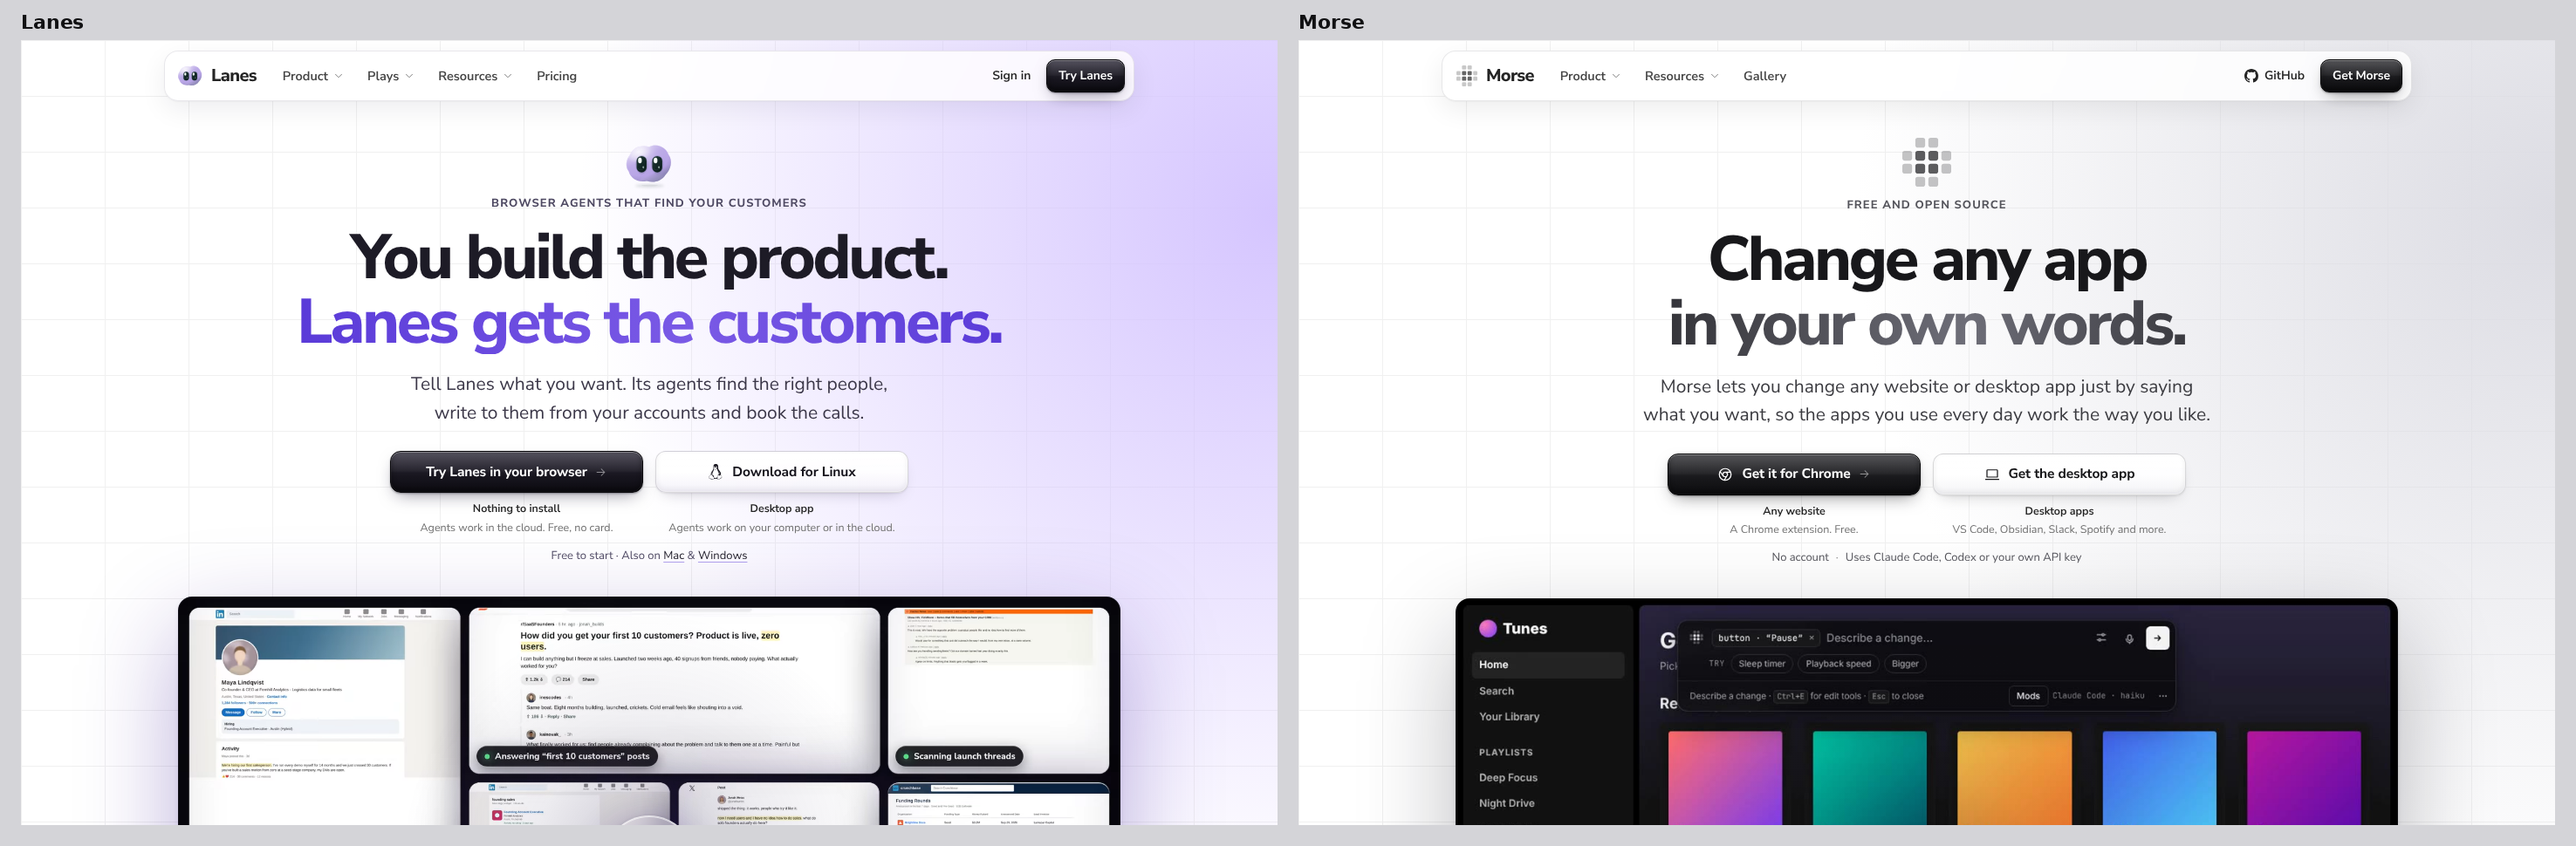
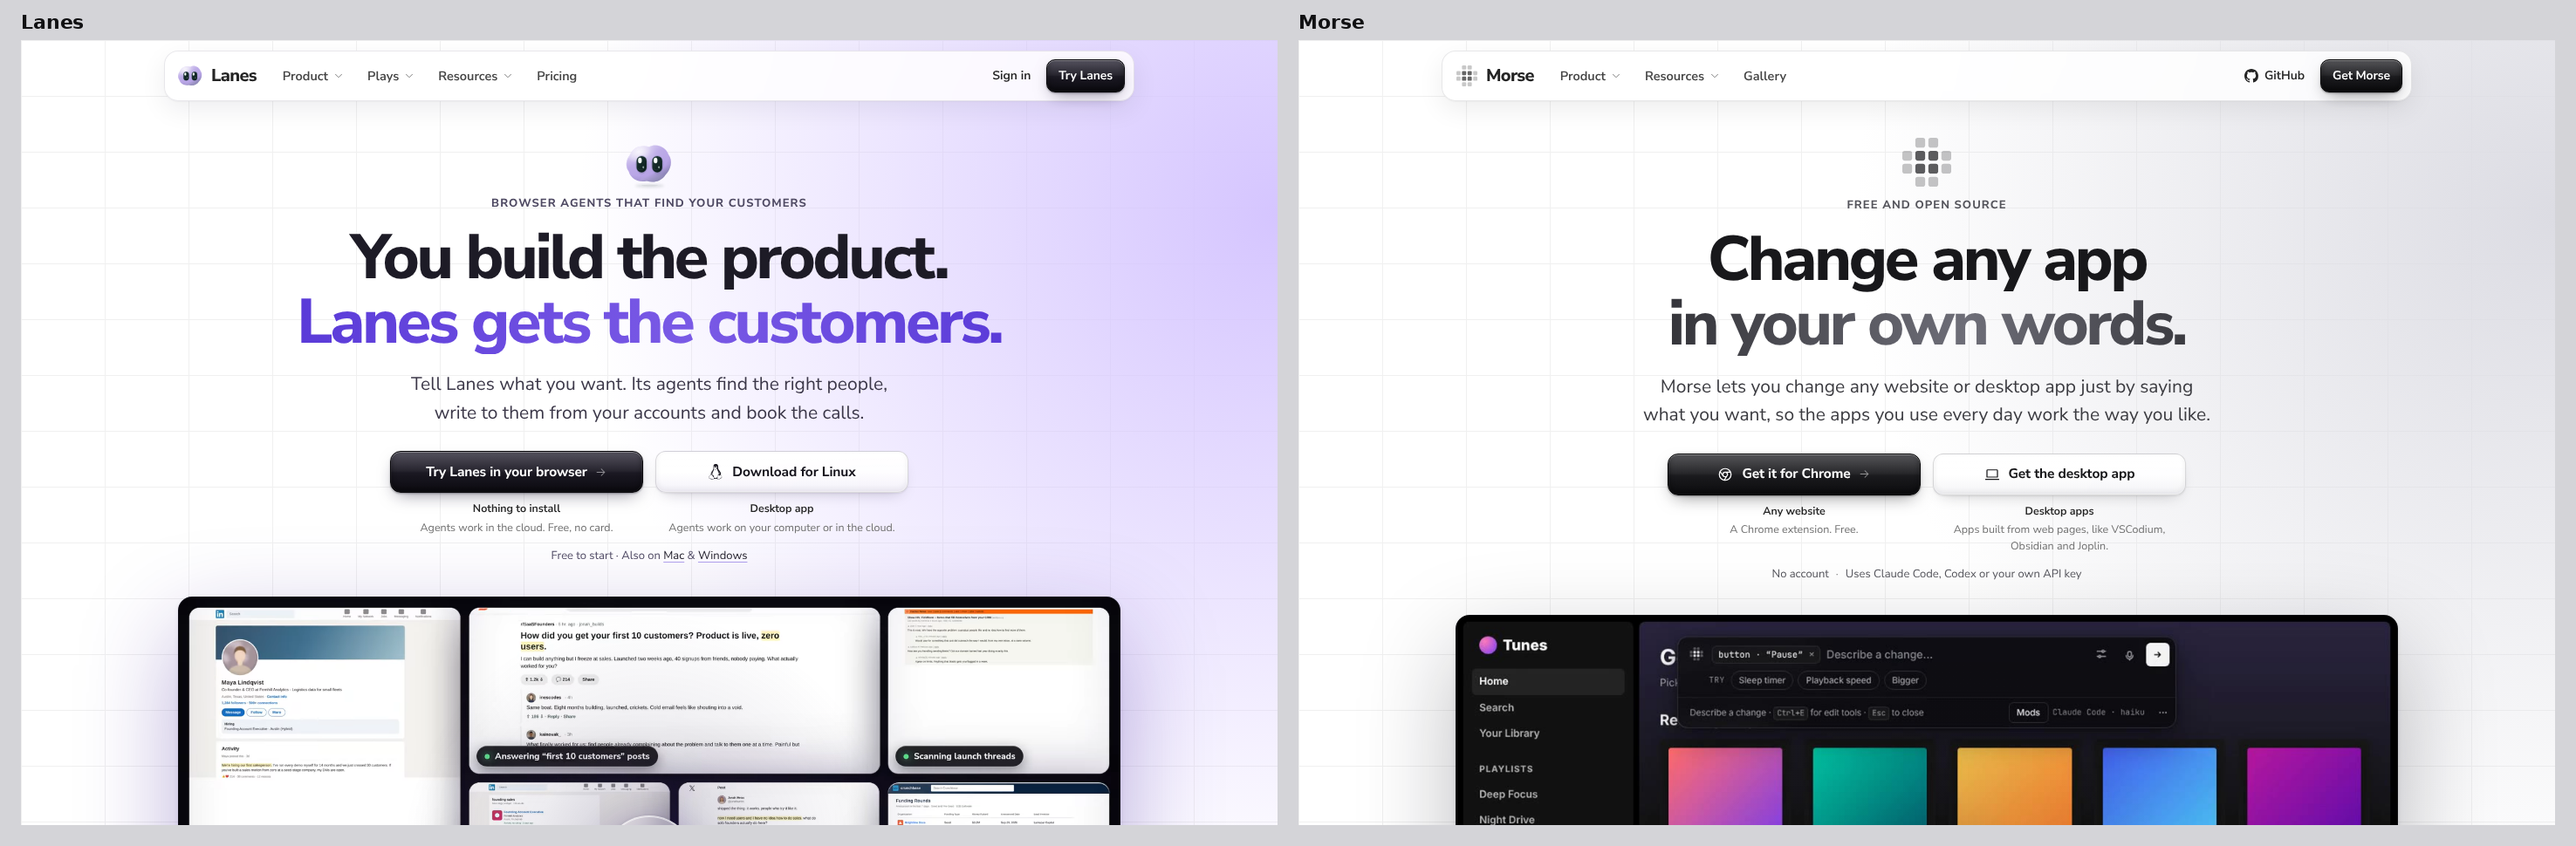
Site: claim only what was tested, and shoot full pages with every picture
- Desktop apps: name what was tried (VSCodium, Obsidian, Joplin and the
  sample app), and what wasn't (Microsoft's VS Code, Slack, Discord,
  Spotify, macOS, Windows), per docs/desktop.md "Tested on". The install
  example opens Obsidian; morse apps lists the rest.
- The request examples and the per-site cards read as ideas, with a note
  that gallery mods were written by hand, not each tried on the live site.
- FAQ: which sites and apps were tried; Claude Code is the model tried for
  real.
- demo/shoot-site.js scrolls through each page and waits until every
  picture has decoded (and fails if one didn't) before a full-page shot;
  the landing shots and the Morse side of compare-* are retaken.

Claude-Session: https://claude.ai/code/session_01JPQNdGmAR6LVbeAzJZFfz3

Changed region(s): [[0.561, 0.6186, 0.935, 0.9897]]

diff --git a/site/index.html b/site/index.html
@@ -58,7 +58,7 @@
                 <li><a class="nav-card" href="#self-heal"><span class="nav-card-icon"><svg class="icon"><use href="#i-refresh"/></svg></span><span class="nav-card-text"><strong>Fixes itself</strong><span>When a site changes, your mods catch up.</span></span></a></li>
                 <li><a class="nav-card" href="#your-style"><span class="nav-card-icon"><svg class="icon"><use href="#i-pen"/></svg></span><span class="nav-card-text"><strong>Your style</strong><span>One look, on every site and app.</span></span></a></li>
                 <li><a class="nav-card" href="#packs"><span class="nav-card-icon"><svg class="icon"><use href="#i-layers"/></svg></span><span class="nav-card-text"><strong>Mod packs</strong><span>Share a set of mods with your team.</span></span></a></li>
-                <li><a class="nav-card" href="#desktop"><span class="nav-card-icon"><svg class="icon"><use href="#i-monitor"/></svg></span><span class="nav-card-text"><strong>Desktop apps</strong><span>VS Code, Obsidian, Slack and more.</span></span></a></li>
+                <li><a class="nav-card" href="#desktop"><span class="nav-card-icon"><svg class="icon"><use href="#i-monitor"/></svg></span><span class="nav-card-text"><strong>Desktop apps</strong><span>Tried on VSCodium, Obsidian and Joplin.</span></span></a></li>
               </ul>
             </div>
           </li>
@@ -137,7 +137,7 @@
         </div>
         <div class="start-item">
           <a class="start-opt is-soft" href="./#install-desktop" data-link="desktop"><svg class="icon"><use href="#i-laptop"/></svg>Get the desktop app</a>
-          <p class="start-caption"><strong>Desktop apps</strong><span>VS Code, Obsidian, Slack, Spotify and more.</span></p>
+          <p class="start-caption"><strong>Desktop apps</strong><span>Apps built from web pages, like VSCodium, Obsidian and Joplin.</span></p>
         </div>
       </div>
       <p class="hero-note"><span class="note-line">No account</span><span class="note-line">Uses Claude Code, Codex or your own API key</span></p>
@@ -158,7 +158,7 @@
 
     <div class="wrap">
       <div class="hero-channels">
-        <p id="hero-apps-label">Mods in the gallery for these, and Morse works on any website</p>
+        <p id="hero-apps-label">The gallery has example mods for these, written by hand</p>
         <ul aria-labelledby="hero-apps-label">
           <li class="channel-tile"><img src="logos/youtube.svg" alt="YouTube" width="22" height="22"></li>
           <li class="channel-tile"><img src="logos/github.svg" alt="GitHub" width="22" height="22"></li>
@@ -207,11 +207,11 @@
             <p>Your model writes the change and you see it right away. Save keeps it as a mod: a change you saved. Morse brings it back every time you open that site or app.</p>
           </li>
         </ol>
-        <p class="goal-line"><span>Or try:</span> <span class="goal">“hide Shorts everywhere”</span> · <span class="goal">“add a sleep timer that pauses the music”</span> · <span class="goal">“show a live word count under the message box”</span> · <span class="goal">“use the full width for pull request diffs”</span></p>
+        <p class="goal-line"><span>Ideas to ask for:</span> <span class="goal">“hide Shorts everywhere”</span> · <span class="goal">“add a sleep timer that pauses the music”</span> · <span class="goal">“show a live word count under the message box”</span> · <span class="goal">“use the full width for pull request diffs”</span></p>
       </div>
 
       <div class="gtm">
-        <h3 class="gtm-title">If you can say it, you can change it.</h3>
+        <h3 class="gtm-title">Ideas, with an example mod for each in the gallery.</h3>
         <ul class="plain-grid">
           <li><h4>Hide what’s in the way</h4><p>Shorts on <a href="gallery.html#youtube-hide-shorts">YouTube</a>, trends on <a href="gallery.html#x-hide-trending">X</a>, upsells in <a href="gallery.html#discord-no-upsells">Discord</a>.</p></li>
           <li><h4>Add what’s missing</h4><p>A sleep timer in <a href="gallery.html#spotify-sleep-timer">Spotify</a>, a word count in <a href="gallery.html#chatgpt-word-count">ChatGPT</a>.</p></li>
@@ -220,6 +220,7 @@
           <li><h4>Help you focus</h4><p>Fade the channels with nothing new in <a href="gallery.html#slack-quiet-sidebar">Slack</a>, a focus mode for <a href="gallery.html#notion-focus-mode">Notion</a>.</p></li>
           <li><h4>Or edit it by hand</h4><p>Point at something and the Edit tools appear: hide, move, resize, edit text, recolor. No model, no waiting.</p></li>
         </ul>
+        <p class="guard-note">The gallery’s mods were written by hand for each site and app, not each tried on the live site. Sites change, so one may need a fix.</p>
         <p class="gtm-more"><a class="text-link" href="gallery.html">See every mod in the gallery<svg class="icon"><use href="#i-arrow"/></svg></a></p>
       </div>
     </div>
@@ -313,13 +314,13 @@
         <div class="scale-text">
           <p class="eyebrow">Desktop apps</p>
           <h2><span>Not just websites.</span> <span>Desktop apps too.</span></h2>
-          <p>Many desktop apps are web pages inside a window: VS Code, Obsidian, Slack, Discord, Spotify. <code>morse launch</code> opens the app with Morse connected. Point, say the change, save it.</p>
+          <p>Many desktop apps are web pages inside a window. <code>morse launch</code> opens one with Morse connected: point, say the change, save it. Tried so far on Linux with VSCodium, Obsidian, Joplin and a sample app made for testing.</p>
           <p class="scale-number"><strong>0</strong><span>files in the app are changed. Morse connects while the app runs, so updates install as usual.</span></p>
-          <p class="scale-note">It works with desktop apps built from web pages. A few block the connection, and <code>morse fuses</code> tells you before you try. Apps like Finder or Word don’t work.</p>
+          <p class="scale-note">It is made for desktop apps built from web pages. Not tried yet: Microsoft’s VS Code, Slack, Discord, Spotify, macOS and Windows. A few apps block the connection, and <code>morse fuses</code> tells you before you try. Apps like Finder or Word can’t work.</p>
         </div>
         <figure class="frame scale-hero">
           <div class="frame-body"><img src="shots/127-electron-haiku-result.webp" width="1280" height="800" loading="lazy" decoding="async" alt="A desktop music app with the bar open: “Sleep timer pauses playback”, written in 9.5 seconds, with Save and Undo."></div>
-          <figcaption>A sleep timer added to a desktop music app, written by Claude Code.</figcaption>
+          <figcaption>Tunes, the sample app Morse is tested on: a sleep timer, written by Claude Code.</figcaption>
         </figure>
       </div>
 
@@ -400,10 +401,10 @@ $ morse setup</pre>
           </div>
           <p><code>morse setup</code> finds Claude Code, Codex or an API key and asks which to use. Then open an app with Morse:</p>
           <div class="codebox">
-            <pre id="cmd-launch">$ morse launch spotify</pre>
+            <pre id="cmd-launch">$ morse launch obsidian</pre>
             <button class="btn btn-secondary" type="button" data-copy="cmd-launch">Copy</button>
           </div>
-          <p class="get-small">Also <code>slack</code>, <code>discord</code>, <code>vscode</code>, <code>notion</code>, <code>obsidian</code>, or a path to the app.</p>
+          <p class="get-small"><code>morse apps</code> lists the apps it found on this computer. You can also give a path to the app.</p>
         </article>
         <article class="get-card" id="install-chrome">
           <h3><span class="ico-tile"><svg class="icon"><use href="#i-chrome"/></svg></span>Chrome</h3>
@@ -438,7 +439,7 @@ $ morse setup</pre>
         </details>
         <details class="faq-item">
           <summary>Which models can I use?</summary>
-          <p>Claude Code or Codex, if you have them. Or an Anthropic or OpenAI API key. Or any server that works like OpenAI’s, including one on your own computer, such as LM Studio or llama.cpp. <code>morse setup</code> finds what you have.</p>
+          <p>Claude Code or Codex, if you have them. Or an Anthropic or OpenAI API key. Or any server that works like OpenAI’s, including one on your own computer, such as LM Studio or llama.cpp. <code>morse setup</code> finds what you have. Claude Code is the one tried for real so far; the others are tested against stand-ins.</p>
         </details>
         <details class="faq-item">
           <summary>What does it cost?</summary>
@@ -446,7 +447,7 @@ $ morse setup</pre>
         </details>
         <details class="faq-item">
           <summary>Which apps work?</summary>
-          <p>Any website in Chrome. Desktop apps built from web pages, like VS Code, Obsidian, Slack, Discord, Notion and Spotify. A few apps block the connection Morse needs; <code>morse fuses &lt;app&gt;</code> tells you before you try. Apps that are not built from web pages, like Finder or Word, don’t work.</p>
+          <p>Websites in Chrome: tried on sites such as PyPI, GitLab and Docker Hub. Desktop apps built from web pages: tried on VSCodium, Obsidian and Joplin, on Linux. Microsoft’s VS Code, Slack, Discord, Spotify, macOS and Windows aren’t tried yet. A few apps block the connection Morse needs; <code>morse fuses &lt;app&gt;</code> tells you before you try. Apps that are not built from web pages, like Finder or Word, don’t work.</p>
         </details>
         <details class="faq-item">
           <summary>Do I need to know how to code?</summary>
@@ -478,7 +479,7 @@ $ morse setup</pre>
         </div>
         <div class="start-item">
           <a class="start-opt is-soft" href="./#install-desktop" data-link="desktop"><svg class="icon"><use href="#i-laptop"/></svg>Get the desktop app</a>
-          <p class="start-caption"><strong>Desktop apps</strong><span>VS Code, Obsidian, Slack, Spotify and more.</span></p>
+          <p class="start-caption"><strong>Desktop apps</strong><span>Apps built from web pages, like VSCodium, Obsidian and Joplin.</span></p>
         </div>
       </div>
       <p class="cta-note">Free and open source · MIT license · No account</p>

diff --git a/demo/shoot-site.js b/demo/shoot-site.js
@@ -49,17 +49,33 @@ const shot = async (p, name, full) => {
   console.log("  📸", name);
 };
 
+// Lazy pictures load only near the screen, and a full-page screenshot doesn't
+// scroll. So scroll down the page a screen at a time, then wait until every
+// picture has decoded, and fail if one didn't, rather than shoot blank boxes.
+async function loadEveryPicture(p) {
+  const height = await p.evaluate(() => document.documentElement.scrollHeight);
+  const step = p.viewportSize().height / 2;
+  for (let y = 0; y < height; y += step) {
+    await p.evaluate(top => window.scrollTo(0, top), y);
+    await sleep(120);
+  }
+  const missing = await p.evaluate(async () => {
+    await Promise.all([...document.images].map(i => i.decode().catch(() => {})));
+    await document.fonts.ready;
+    return [...document.images].filter(i => !i.complete || !i.naturalWidth).map(i => i.getAttribute("src"));
+  });
+  if (missing.length) throw new Error(`pictures that didn't load: ${missing.join(", ")}`);
+  await p.evaluate(() => window.scrollTo(0, 0));
+  await sleep(300);
+}
+
 for (const size of ["desktop", "mobile"]) {
-  // The landing page, top to bottom (lazy pictures loaded first).
+  // The landing page, top to bottom, every picture loaded.
   let p = await page(size, "light");
   await p.goto(at("/site/"));
   await p.waitForLoadState("networkidle");
-  await p.evaluate(async () => {
-    for (const img of document.querySelectorAll("img[loading=lazy]")) img.loading = "eager";
-    await Promise.all([...document.images].map(i => i.complete ? 0 : new Promise(r => { i.onload = i.onerror = r; })));
-    await document.fonts.ready;
-  });
-  await sleep(600);
+  await loadEveryPicture(p);
+  await sleep(300);
   await shot(p, `landing-${size}.png`, true);
   // The nav: a menu panel on a wide screen, the sheet on a phone.
   if (size === "desktop") {
@@ -77,7 +93,7 @@ for (const size of ["desktop", "mobile"]) {
   p = await page(size, "light");
   await p.goto(at("/site/gallery.html"));
   await p.waitForSelector("#grid .card");
-  await sleep(500);
+  await loadEveryPicture(p);
   await shot(p, `gallery-${size}.png`, true);
   await p.locator("#grid > *").first().click();
   await p.waitForSelector("#drawer.open");

diff --git a/site/gallery.html b/site/gallery.html
@@ -59,7 +59,7 @@
                 <li><a class="nav-card" href="./#self-heal"><span class="nav-card-icon"><svg class="icon"><use href="#i-refresh"/></svg></span><span class="nav-card-text"><strong>Fixes itself</strong><span>When a site changes, your mods catch up.</span></span></a></li>
                 <li><a class="nav-card" href="./#your-style"><span class="nav-card-icon"><svg class="icon"><use href="#i-pen"/></svg></span><span class="nav-card-text"><strong>Your style</strong><span>One look, on every site and app.</span></span></a></li>
                 <li><a class="nav-card" href="./#packs"><span class="nav-card-icon"><svg class="icon"><use href="#i-layers"/></svg></span><span class="nav-card-text"><strong>Mod packs</strong><span>Share a set of mods with your team.</span></span></a></li>
-                <li><a class="nav-card" href="./#desktop"><span class="nav-card-icon"><svg class="icon"><use href="#i-monitor"/></svg></span><span class="nav-card-text"><strong>Desktop apps</strong><span>VS Code, Obsidian, Slack and more.</span></span></a></li>
+                <li><a class="nav-card" href="./#desktop"><span class="nav-card-icon"><svg class="icon"><use href="#i-monitor"/></svg></span><span class="nav-card-text"><strong>Desktop apps</strong><span>Tried on VSCodium, Obsidian and Joplin.</span></span></a></li>
               </ul>
             </div>
           </li>

diff --git a/site/privacy.html b/site/privacy.html
@@ -53,7 +53,7 @@
                 <li><a class="nav-card" href="./#self-heal"><span class="nav-card-icon"><svg class="icon"><use href="#i-refresh"/></svg></span><span class="nav-card-text"><strong>Fixes itself</strong><span>When a site changes, your mods catch up.</span></span></a></li>
                 <li><a class="nav-card" href="./#your-style"><span class="nav-card-icon"><svg class="icon"><use href="#i-pen"/></svg></span><span class="nav-card-text"><strong>Your style</strong><span>One look, on every site and app.</span></span></a></li>
                 <li><a class="nav-card" href="./#packs"><span class="nav-card-icon"><svg class="icon"><use href="#i-layers"/></svg></span><span class="nav-card-text"><strong>Mod packs</strong><span>Share a set of mods with your team.</span></span></a></li>
-                <li><a class="nav-card" href="./#desktop"><span class="nav-card-icon"><svg class="icon"><use href="#i-monitor"/></svg></span><span class="nav-card-text"><strong>Desktop apps</strong><span>VS Code, Obsidian, Slack and more.</span></span></a></li>
+                <li><a class="nav-card" href="./#desktop"><span class="nav-card-icon"><svg class="icon"><use href="#i-monitor"/></svg></span><span class="nav-card-text"><strong>Desktop apps</strong><span>Tried on VSCodium, Obsidian and Joplin.</span></span></a></li>
               </ul>
             </div>
           </li>
